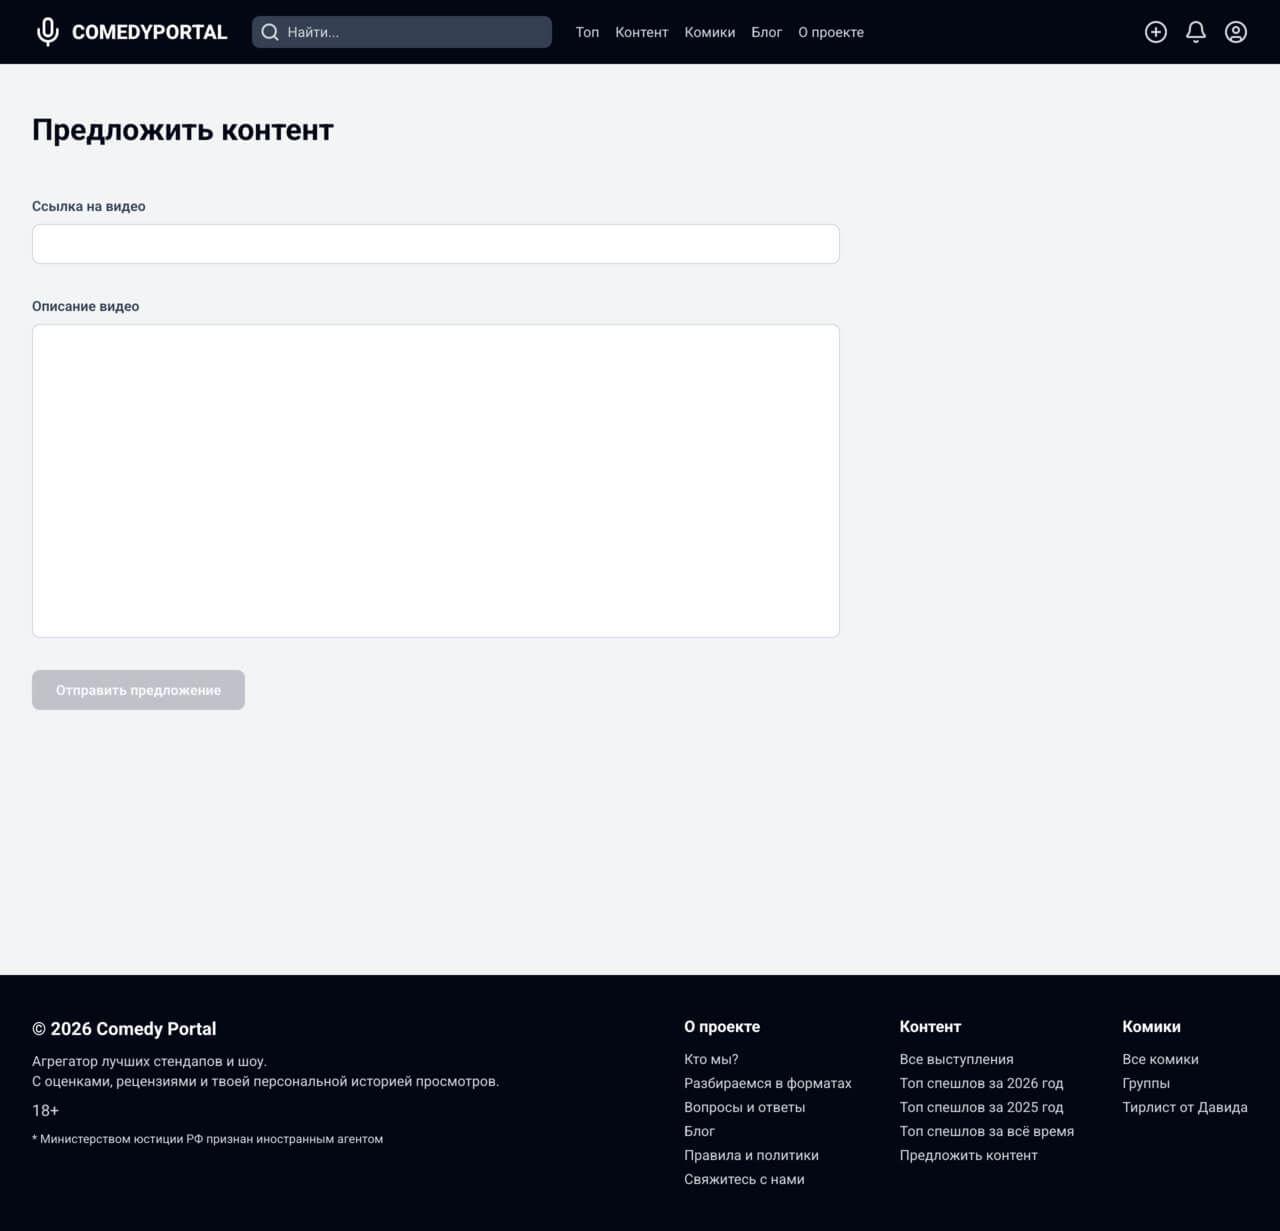
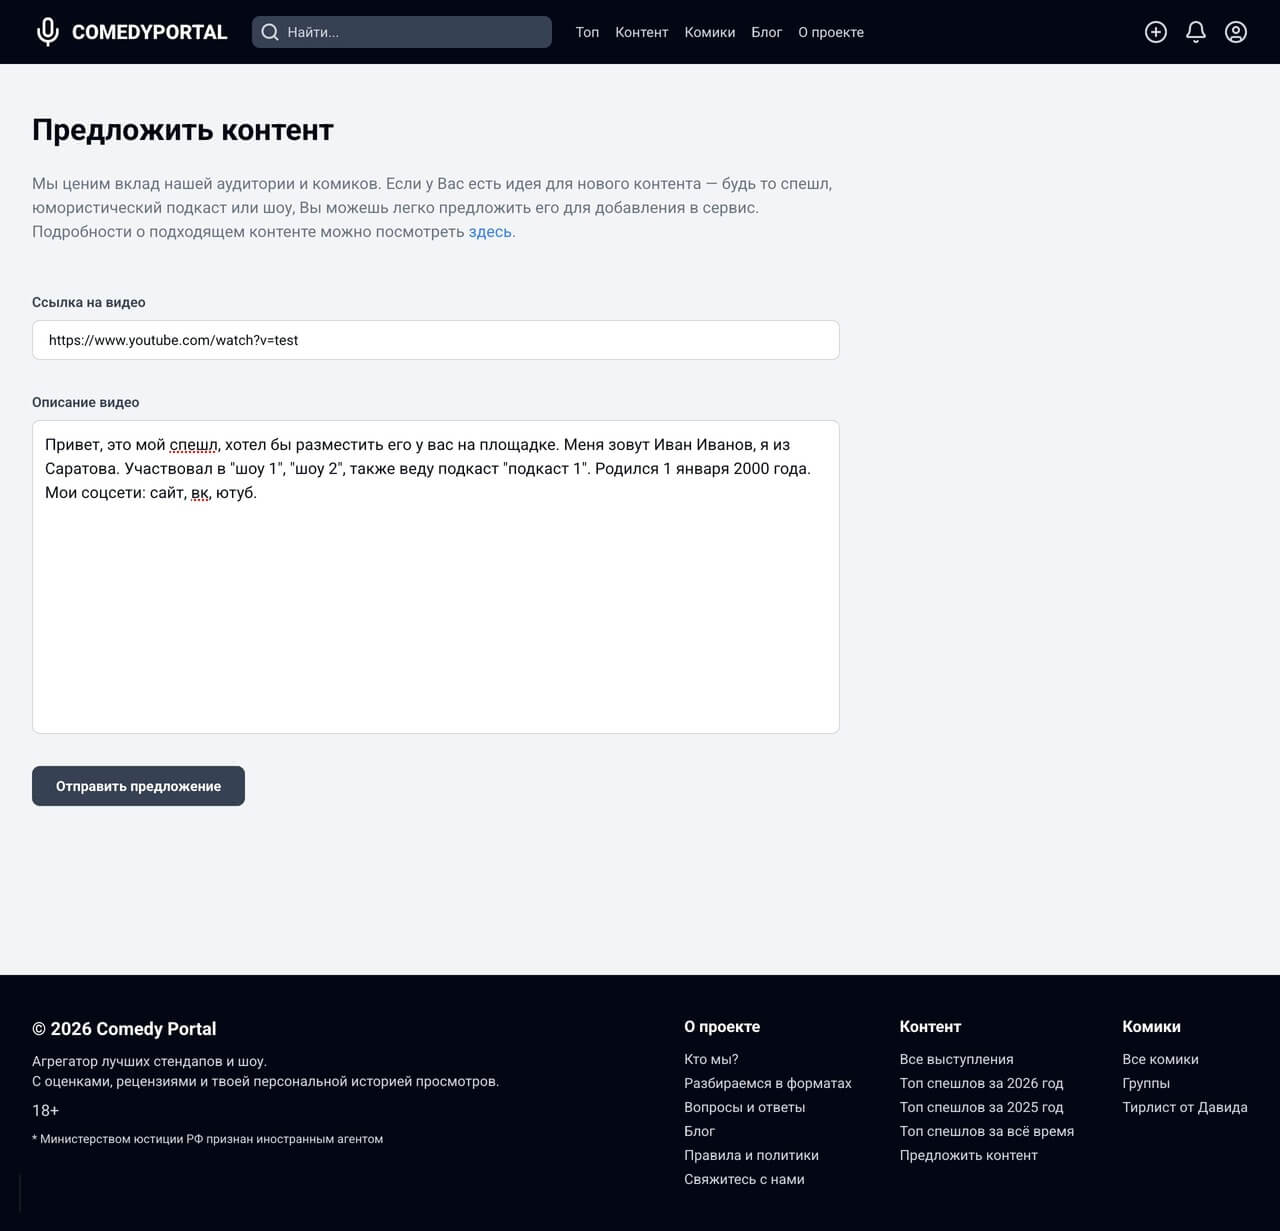
How to add content

diff --git a/src/content/blog/content-submit.tsx b/src/content/blog/content-submit.tsx
@@ -1,3 +1,4 @@
+import Image from 'next/image'
 import Link from 'next/link'
 
 import { BlogArticle } from '@/utils/types/blog'
@@ -53,23 +54,63 @@ const article: BlogArticle = {
     title: 'Как предложить контент для Камеди Портал',
     content: (
         <>
-            <p>Мы&nbsp;ценим вклад нашей аудитории и&nbsp;комиков. Если у&nbsp;тебя есть идея для нового контента&nbsp;&mdash; будь&nbsp;то спешл, юмористический подкаст или шоу, ты&nbsp;можешь легко предложить его для добавления в&nbsp;сервис.</p>
-            <div>
-                <strong>Важно</strong>
-                <br />
-                <p>Мы&nbsp;добавляем только контент, который соответствует нашим типам и&nbsp;описанию форматов. Подробности о&nbsp;подходящем контенте можно посмотреть <Link href="/about/formats" className='text-blue-500 hover:text-blue-700' target='_blank'>здесь</Link>.</p>
+            <p>Мы&nbsp;ценим вклад нашей аудитории и&nbsp;комиков. Если у&nbsp;Вас есть идея для нового контента&nbsp;&mdash; будь&nbsp;то спешл, юмористический подкаст или шоу, Вы&nbsp;можете легко предложить его для добавления в&nbsp;сервис.</p>
+            <div className="space-y-4">
+                <h2 className="text-lg font-semibold">Важно</h2>
+                <p>Мы&nbsp;добавляем только контент, который соответствует нашим типам и&nbsp;описанию форматов. Подробности о&nbsp;подходящем контенте можно посмотреть <Link href="/about/formats" className="text-blue-500 hover:text-blue-700" target="_blank">здесь</Link>.</p>
             </div>
-            <div>
-                <strong>Как это работает?</strong>
-                <br />
+
+            <div className="space-y-4">
+                <h2 className="text-lg font-semibold">Как это работает</h2>
                 <ul className="list-disc pl-12">
-                    <li>Найди кнопку «Предложить контент»</li>
+                    <li>Найдите кнопку &laquo;Предложить контент&raquo;</li>
                     <li>
-                        нажимаешь кнопку <strong>«Подписаться»</strong>
+                        На&nbsp;большом экране: это кнопка &laquo;+&raquo;, она всегда видна в&nbsp;верхней части страницы.
                     </li>
-                    <li>готово</li>
+                    <li>
+                        На&nbsp;мобильных устройствах: нажмите на&nbsp;меню в&nbsp;правом верхнем углу, там найдёте кнопку &laquo;Предложить контент&raquo;. Просто нажмите&nbsp;её, и&nbsp;откроется удобная форма для предложений.
+                    </li>
                 </ul>
             </div>
+            
+            <div className="space-y-4">
+                <h2 className="text-lg font-semibold">Заполните форму</h2>
+                <p>В&nbsp;форме есть два основных поля:</p>
+                <ul className="list-disc pl-12">
+                    <li><strong>Ссылка на&nbsp;видео</strong>&nbsp;&mdash; укажите прямую ссылку на&nbsp;контент, который хотите предложить.</li>
+                    <li><strong>Описание видео</strong>&nbsp;&mdash; кратко расскажите, о&nbsp;чём видео, чтобы мы&nbsp;понимали, что это за&nbsp;материал и&nbsp;зачем его добавлять.</li>
+                </ul>
+            </div>
+            
+            <div className="space-y-4">
+                <h2 className="text-lg font-semibold">Для комиков и авторов</h2>
+                <p>Если Вы&nbsp;автор контента или хотите дать больше информации, добавьте информацию об&nbsp;авторе контента:</p>
+                <ul className="list-disc pl-12">
+                    <li>Ссылка на&nbsp;социальные сети или личный сайт</li>
+                    <li>Краткая биография (откуда комик, когда родился, интересные факты)</li>
+                    <li>Любые достижения или участие в&nbsp;проектах/шоу</li>
+                </ul>
+                <p>Это помогает нам добавлять больше полезной информации о&nbsp;комике и&nbsp;делать каталог качественным и&nbsp;интересным для всех пользователей.</p>
+            </div>
+
+            
+            <div className="space-y-4">
+                <h2 className="text-lg font-semibold">Отправьте предложение</h2>
+                <p>После заполнения формы просто нажмите &laquo;Отправить&raquo;. Мы&nbsp;проверим контент&nbsp;и, если он&nbsp;подходит, добавим его на&nbsp;Камеди Портал.</p>
+            </div>
+
+            <div className="w-full overflow-hidden rounded shadow-2xl">
+                <Image
+                    src="/images/welcome/content-submit.jpg"
+                    width={2560}
+                    height={2560}
+                    alt="Как предложить контент для Камеди Портал"
+                />
+            </div>
+
+            <p className="italic">
+                <strong>Совет:</strong> чем точнее и&nbsp;информативнее описание, тем быстрее мы&nbsp;сможем добавить материал в&nbsp;каталог. Даже короткий комментарий к&nbsp;видео помогает нам понять контент и&nbsp;его контекст.
+            </p>
         </>
     ),
 }

diff --git a/src/content/blog/subscriptions.tsx b/src/content/blog/subscriptions.tsx
@@ -61,16 +61,16 @@ const article: BlogArticle = {
                 Мы&nbsp;добавили новую полезную функцию&nbsp;&mdash;{' '}
                 <strong>подписки на&nbsp;комиков и&nbsp;группы</strong>.
             </p>
+
             <p>
                 Теперь не&nbsp;нужно каждый раз вручную проверять, вышло&nbsp;ли что-то новое у&nbsp;любимого автора.
                 Достаточно один раз нажать &laquo;Подписаться&raquo;&nbsp;&mdash; и&nbsp;все обновления сами найдут
                 тебя.
             </p>
 
-            <div>
-                <strong>Как это работает?</strong>
-                <br />
-                Всё максимально просто:
+            <div className="space-y-4">
+                <h2 className="text-lg font-semibold">Как это работает?</h2>
+                <p>Всё максимально просто:</p>
                 <ul className="list-disc pl-12">
                     <li>заходишь на страницу комика или группы</li>
                     <li>
@@ -94,26 +94,23 @@ const article: BlogArticle = {
                 />
             </div>
 
-            <div>
-                <strong>Зачем это нужно?</strong>
-                <br />
-                Если ты:
+            <div className="space-y-4">
+                <h2 className="text-lg font-semibold">Зачем это нужно?</h2>
+                <p>Если ты:</p>
                 <ul className="list-disc pl-12">
                     <li>следишь за&nbsp;конкретными комиками</li>
                     <li>не&nbsp;хочешь пропускать новые выступления</li>
                     <li>устал узнавать о&nbsp;релизах случайно или слишком поздно</li>
                 </ul>
-                <br />
-                &mdash;&nbsp;подписка решает эту проблему. Ты&nbsp;сам выбираешь, за&nbsp;кем следить, и&nbsp;получаешь
-                только те уведомления, которые реально интересны.
+                <p>&mdash;&nbsp;подписка решает эту проблему. Ты&nbsp;сам выбираешь, за&nbsp;кем следить, и&nbsp;получаешь
+                только те уведомления, которые реально интересны.</p>
             </div>
 
-            <p>
-                <strong>Попробуй прямо сейчас</strong>
-                <br />
-                Функция уже доступна. Подпишись на&nbsp;любимых авторов и&nbsp;убедись сам, насколько это удобно! Новые
-                спешлы и шоу выходят постоянно&nbsp;&mdash; теперь ты&nbsp;точно их&nbsp;не&nbsp;пропустишь.
-            </p>
+            <div className="space-y-4">
+                <h2 className="text-lg font-semibold">Попробуй прямо сейчас</h2>
+                <p>Функция уже доступна. Подпишись на&nbsp;любимых авторов и&nbsp;убедись сам, насколько это удобно! Новые
+                спешлы и шоу выходят постоянно&nbsp;&mdash; теперь ты&nbsp;точно их&nbsp;не&nbsp;пропустишь.</p>
+            </div>
         </>
     ),
 }

diff --git a/src/app/(portal)/content/submit/layout.tsx b/src/app/(portal)/content/submit/layout.tsx
@@ -1,5 +1,7 @@
 import { Metadata } from 'next'
 
+import Link from 'next/link'
+
 import { Layout } from '@/components/features/layout/layout/layout'
 
 // prettier-ignore
@@ -9,7 +11,21 @@ export const metadata: Metadata = {
 
 export default function ContentSubmitLayout(props: { children: React.ReactNode }) {
     return (
-        <Layout title="Предложить контент" size="sm">
+        <Layout
+            title="Предложить контент"
+            info={
+                <div>
+                    Мы&nbsp;ценим вклад нашей аудитории и&nbsp;комиков. Если у&nbsp;Вас есть идея для нового
+                    контента&nbsp;&mdash; будь&nbsp;то спешл, юмористический подкаст или шоу, Вы&nbsp;можешь легко
+                    предложить его для добавления в&nbsp;сервис. Подробности о&nbsp;подходящем контенте можно посмотреть{' '}
+                    <Link href="/about/formats" className="text-blue-500 hover:text-blue-700" target="_blank">
+                        здесь
+                    </Link>
+                    .
+                </div>
+            }
+            size="sm"
+        >
             {props.children}
         </Layout>
     )

diff --git a/src/components/features/about/about-faq.tsx b/src/components/features/about/about-faq.tsx
@@ -1,3 +1,5 @@
+import Link from 'next/link'
+
 import { AboutFaqExpander } from './components/about-faq-expander'
 
 export const AboutFaq = () => {
@@ -71,6 +73,18 @@ export const AboutFaq = () => {
                         Вашем главном экране.
                     </li>
                 </ol>
+            </AboutFaqExpander>
+
+            <AboutFaqExpander title="Как предложить контент для Камеди Портал?">
+                <p>
+                    Вы&nbsp;можете легко предложить новый контент&nbsp;&mdash; будь&nbsp;то спешл, подкаст или шоу.
+                    Просто заполните форму с ссылкой на&nbsp;видео и&nbsp;кратким описанием. Для подробной инструкции
+                    и&nbsp;советов по&nbsp;заполнению формы смотрите нашу статью:{' '}
+                    <Link href="/blog/content-submit" className="text-blue-500 hover:text-blue-700">
+                        Как предложить контент
+                    </Link>
+                    .
+                </p>
             </AboutFaqExpander>
         </div>
     )

diff --git a/src/components/features/landing/landing-hero.tsx b/src/components/features/landing/landing-hero.tsx
@@ -48,7 +48,6 @@ export const LandingHero = ({ isAuth }: LandingHeroProps) => {
                         <Link
                             href="/welcome"
                             className="flex h-12 cursor-pointer items-center justify-center rounded-lg border border-white px-6 font-bold text-nowrap text-white"
-                            target="_blank"
                         >
                             Узнать больше
                         </Link>

diff --git a/src/components/features/welcome/welcome.tsx b/src/components/features/welcome/welcome.tsx
@@ -143,6 +143,7 @@ export const Welcome = ({ username, isAuth }: WelcomeProps) => {
         },
         {
             title: '💡 Предлагай контент',
+            href: '/blog/content-submit',
             text: (
                 <p>
                     Не&nbsp;нашёл любимое шоу или новый спешл? Сообщи нам! У&nbsp;нас есть удобная{' '}

diff --git a/src/components/features/content-submit/content-submit.tsx b/src/components/features/content-submit/content-submit.tsx
@@ -5,6 +5,8 @@ import { useState } from 'react'
 import { useFormik } from 'formik'
 import * as yup from 'yup'
 
+import Link from 'next/link'
+
 import { Button } from '@/components/ui/forms/button'
 import { Input } from '@/components/ui/forms/input'
 import { Textarea } from '@/components/ui/forms/textarea'
